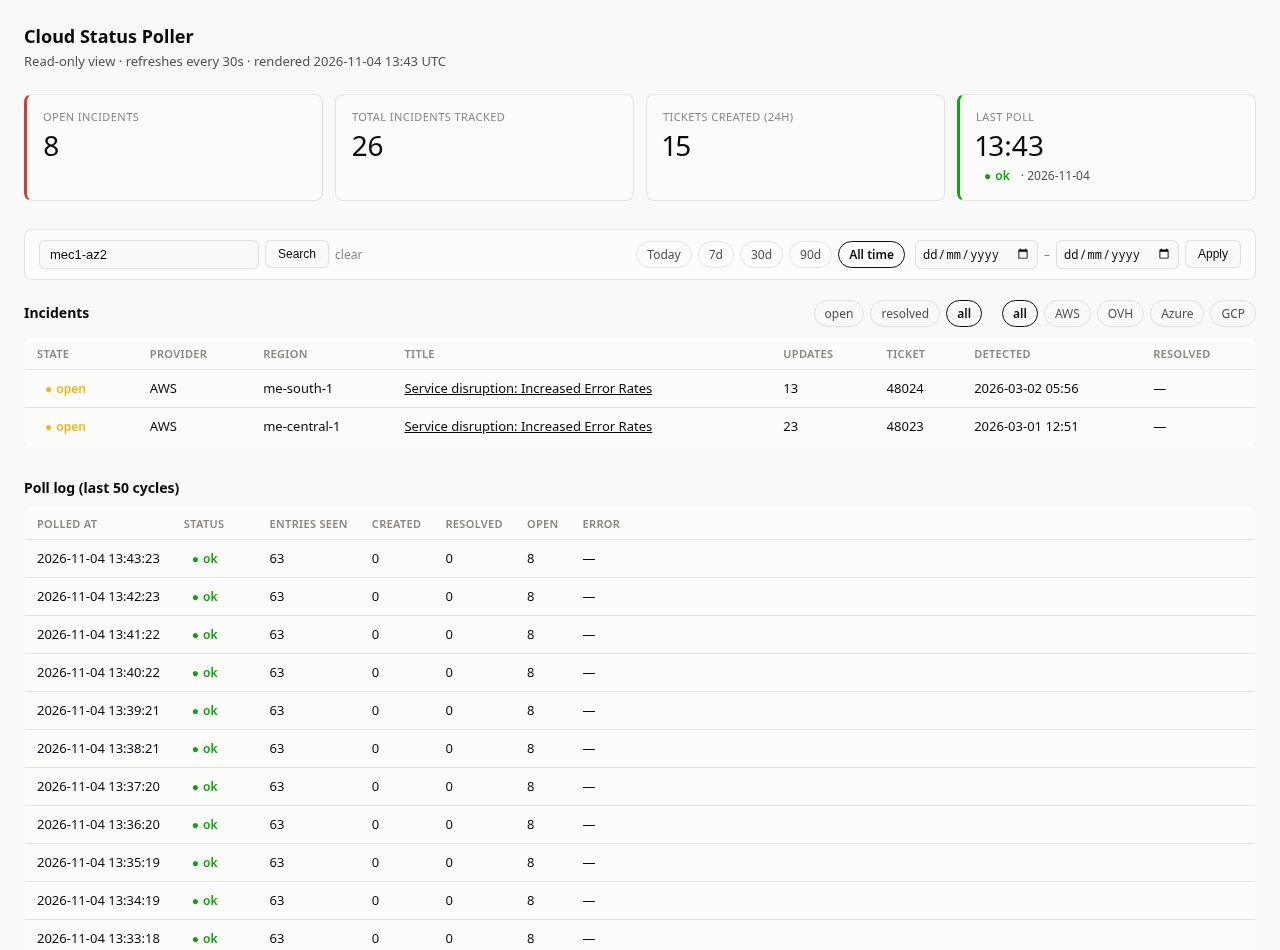
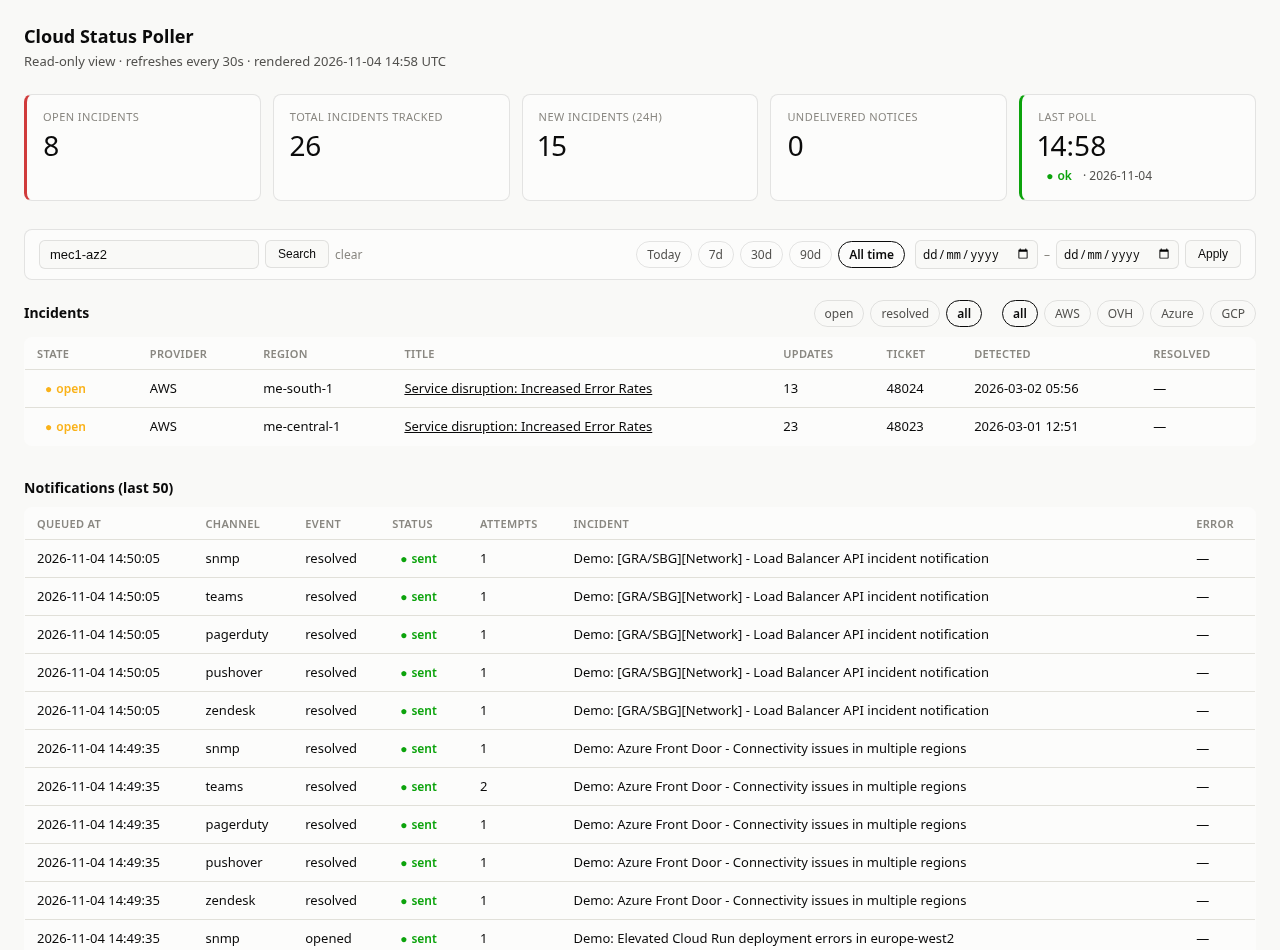
Cloud Status Poller: alert channels and the delivery queue, index in order

diff --git a/cloud-status-poller/README.md b/cloud-status-poller/README.md
@@ -1,12 +1,12 @@
 # Cloud Status Poller
 
-**A small service for support and operations teams that watches the public status feeds of AWS, OVHcloud, Microsoft Azure and Google Cloud, raises a Zendesk ticket when an incident touches a region you care about, and moves the ticket to pending when the provider says it's over.**
+**A small service for support and operations teams that watches the public status feeds of AWS, OVHcloud, Microsoft Azure and Google Cloud, tells you when an incident touches a region you care about, through Zendesk, PagerDuty, Pushover, Microsoft Teams or SNMP traps, and follows up when the provider says it's over.**
 
-When a cloud provider has a problem, the first place to say so is usually its status page, and nobody is paid to sit and refresh four of them. Customers notice first, or a support engineer finds out by chance. Each provider also publishes differently: one posts every update as a separate entry, another rewords its entries, another just removes them when the event ends. Cloud Status Poller reads all four on a schedule, works out which incidents matter to you, and turns each one into a single ticket with a record of what happened and when.
+When a cloud provider has a problem, the first place to say so is usually its status page, and nobody is paid to sit and refresh four of them. Customers notice first, or a support engineer finds out by chance. Each provider also publishes differently: one posts every update as a separate entry, another rewords its entries, another just removes them when the event ends. Cloud Status Poller reads all four on a schedule, works out which incidents matter to you, and turns each one into a single ticket and alert, with a record of what happened and when.
 
-![The dashboard during a run: eight open incidents across OVH, Google Cloud and AWS, with the poll log below](images/01-hero.png)
+![The dashboard during a run: eight open incidents across OVH, Google Cloud and AWS, with the notifications sent below](images/01-hero.png)
 
-*The dashboard at the end of a 50-minute run on 4 November 2026, with real feeds from all four providers. The AWS rows are real: one long-running event in each of two Middle East regions, with 23 and 13 updates on a single ticket each. Entries starting "Demo:" were scripted for this page, so that tickets could open and close during the run. The two OVH rows at the top are real maintenance notices, dated by when the work is scheduled.*
+*The dashboard at the end of a 20-minute run on 4 November 2026, with real feeds from all four providers. The AWS rows are real: one long-running event in each of two Middle East regions, with 23 and 13 updates on a single ticket each. Entries starting "Demo:" were scripted for this page, so that tickets could open and close during the run. The two OVH rows at the top are real maintenance notices, dated by when the work is scheduled.*
 
 ---
 
@@ -17,15 +17,16 @@ When a cloud provider has a problem, the first place to say so is usually its st
 | **Four providers** | AWS, OVHcloud, Azure and Google Cloud, each read in the way its feed needs; any of them can be switched off |
 | **Filtering** | By region, using each provider's own region names, and optionally by keyword |
 | **Zendesk tickets** | One ticket per incident with the provider, region, link and timeline; provider updates added as internal notes; moved to pending when the incident ends, for a person to close |
-| **Failure handling** | Zendesk failures are retried on the next poll; a cycle that fails is recorded with its error; an unreadable feed closes nothing |
-| **Dashboard** | Read-only web view: summary tiles, incidents, search, filters by state, provider and date, and a log of every poll |
+| **Alerts** | Pushover, PagerDuty, Microsoft Teams and SNMP traps, in any combination, with or without Zendesk; old events and planned maintenance don't interrupt anyone |
+| **Failure handling** | Each channel fails and retries alone through a delivery queue; a cycle that fails sends nothing and is recorded with its error; an unreadable feed closes nothing |
+| **Dashboard** | Read-only web view: summary tiles, incidents, search, filters by state, provider and date, and a log of every notification and poll |
 | **History** | Every incident and update is kept in PostgreSQL, with the provider's own timestamps, ready for SQL reporting |
 
 ---
 
 ## From a status feed to a ticket
 
-Every five minutes by default, the poller reads each provider's feed and compares it with what it already knows. A new incident in a watched region gets a Zendesk ticket straight away. An incident that was already over the first time the poller saw it is recorded for history, without raising a ticket nobody needs to act on. When an open incident ends, the ticket gets an internal note and moves to **pending**, and closing it stays a human decision.
+Every five minutes by default, the poller reads each provider's feed and compares it with what it already knows. A new incident in a watched region gets a Zendesk ticket and an alert straight away. An incident that was already over the first time the poller saw it is recorded for history, without raising anything nobody needs to act on. When an open incident ends, the ticket gets an internal note and moves to **pending**, and closing it stays a human decision.
 
 ![Twelve scripted incidents across all four providers: some open, most resolved, with ticket numbers, update counts and detected and resolved times](images/02-lifecycle.png)
 
@@ -42,15 +43,54 @@ Region:   europe-west2
 Link:     https://status.cloud.google.com/incidents/demoGcp001
 
 --- Timeline ---
-Incident published: 2026-11-04 13:00 UTC
-Last updated:       2026-11-04 13:00 UTC
-Detected by poller: 2026-11-04 13:00 UTC
+Incident published: 2026-11-04 14:40 UTC
+Last updated:       2026-11-04 14:40 UTC
+Detected by poller: 2026-11-04 14:40 UTC
 
 --- Detail ---
 Cloud SQL: We are investigating slow restarts of Cloud SQL instances in europe-west2.
 ```
 
 Priority, tags and the Zendesk group that receives the tickets are all settings. Across the run the poller raised 15 tickets, added 6 internal notes and moved 7 tickets to pending.
+
+---
+
+## Alerts: reaching people and systems
+
+A ticket records an incident, but it doesn't wake anyone. Four more channels can run alongside Zendesk, or instead of it: any one of them is enough. Each is on once its settings are filled in.
+
+| Channel | What it sends |
+|---|---|
+| **PagerDuty** | An Events API v2 alert, which clears itself when the incident ends |
+| **Pushover** | A push message to a phone, with a link to the status page; emergency priority repeats until someone acknowledges it |
+| **Microsoft Teams** | An Adaptive Card posted to a channel through a Workflows webhook, with the provider, region and a button to the status page |
+| **SNMP traps** | A v2c trap to each receiver, for network monitoring systems, with a MIB file so they decode by name |
+
+Across the run, each of the four delivered 18 notices: 11 incidents opening and 7 ending. PagerDuty's alert carries a key that its all-clear reuses, so the same alert closes when the incident does. This is what the scripted Cloud SQL incident sent, shortened:
+
+```json
+{
+  "event_action": "trigger",
+  "dedup_key": "cloud-status-19",
+  "payload": {
+    "summary": "[GCP] europe-west2 – Demo: Cloud SQL instances in europe-west2 are slow to restart",
+    "source": "GCP europe-west2",
+    "severity": "error"
+  }
+}
+```
+
+And this is a trap as a real `snmptrapd` decoded it, using the project's MIB, also shortened:
+
+```
+SNMPv2-MIB::snmpTrapOID.0 = OID: CLOUD-STATUS-POLLER-MIB::cspIncidentResolved
+CLOUD-STATUS-POLLER-MIB::cspProvider = STRING: OVH
+CLOUD-STATUS-POLLER-MIB::cspRegion = STRING: GRA
+CLOUD-STATUS-POLLER-MIB::cspTitle = STRING: Demo: [GRA7][Storage] - Volume Ceph incident notification
+CLOUD-STATUS-POLLER-MIB::cspIncidentId = INTEGER: 15
+```
+
+**Not everything should wake someone.** A status feed holds months of history and next month's maintenance, and a new install would otherwise page someone for all of it. So Zendesk records every incident, while the alert channels skip anything published more than 24 hours ago and all scheduled maintenance. Both rules are settings. In the run, the two AWS events from March and two real OVH maintenance notices each got a ticket and no alerts: of the 72 alerts sent, none was about them. Alerts cover new and resolved incidents by default, and a channel only hears that an incident ended if it heard it begin. Provider updates go to Zendesk as notes, and can be turned on for Pushover, Teams and SNMP.
 
 ---
 
@@ -79,45 +119,51 @@ Azure's feed only lists events in progress, so an event can end by disappearing.
 
 **Regions** come first, using each provider's own names. AWS uses codes such as `me-central-1`, and Google Cloud location IDs such as `europe-west2` or `global`. OVH codes match as whole words, so `GRA` finds `[GRA]` and `GRA11` but not the "gra" in "upgrade" or "migrated". Azure names match exactly, so `West US` isn't `West US 2`, and `Central US` isn't `South Central US`. Include `Multiple Regions` to catch broad Azure events, or use `*` for all of them.
 
-**Keywords** are an optional second filter. With one AWS region, three OVH regions and two Google Cloud locations watched, the real feeds gave 10 incidents with no keywords set, 4 with `Compute,Storage`, and 6 with `incident`. That last one drops OVH's maintenance notices, but also AWS, whose entries don't use the word, and the filter applies to every provider. Entries that don't pass are never stored or ticketed.
+**Keywords** are an optional second filter. With one AWS region, three OVH regions and two Google Cloud locations watched, the real feeds gave 10 incidents with no keywords set, 4 with `Compute,Storage`, and 6 with `incident`. That last one drops OVH's maintenance notices, but also AWS, whose entries don't use the word, and the filter applies to every provider. Entries that don't pass are never stored or sent anywhere.
 
 ---
 
 ## The dashboard
 
-The dashboard is a read-only web page that refreshes every 30 seconds. It runs only `SELECT` queries, so it's safe to leave on a wall screen or give to people who shouldn't be able to change anything. Four tiles show open incidents, the total tracked, tickets raised in the last 24 hours, and how the last poll went.
+The dashboard is a read-only web page that refreshes every 30 seconds. It runs only `SELECT` queries, so it's safe to leave on a wall screen or give to people who shouldn't be able to change anything. Five tiles show open incidents, the total tracked, new incidents in the last 24 hours, notices not yet delivered, and how the last poll went.
 
 Search covers titles, summaries, regions, providers and every stored update, not just the newest one. Here, the name of a single AWS Availability Zone finds the two long-running events it was mentioned in:
 
 ![A search for the Availability Zone mec1-az2 finding the two AWS incidents that mention it](images/04-search.png)
 
-Incidents can be filtered by state and provider, and by Today, 7, 30 or 90 days, or a custom date range. The date filter applies to the poll log too, which is why the log is empty for this period: this instance didn't exist yet.
+Incidents can be filtered by state and provider, and by Today, 7, 30 or 90 days, or a custom date range. The date filter applies to the notification and poll logs too, which is why both are empty for this period: this instance didn't exist yet.
 
 ![The dashboard filtered to 1 October to 3 November 2026, showing five real incidents from OVH and Google Cloud](images/05-range.png)
 
 The page follows the browser's light or dark setting. On a phone the tiles stack and the tables scroll sideways.
 
-![The dashboard in dark mode](images/07-dark.png)
+![The dashboard in dark mode](images/08-dark.png)
 
 ---
 
 ## When things go wrong
 
-An unattended service has to cope with the things it depends on failing, so the run included three deliberate faults. The Zendesk here was a stand-in, set up to refuse requests for a few minutes at a time.
+An unattended service has to cope with the things it depends on failing. Every notice goes through a delivery queue: a poll records the incident and queues one notice per channel in the same database transaction, and sends them once that's committed. So each channel fails and retries alone, and notices for one incident stay in order. The run included five deliberate faults, and the services here were stand-ins, set up to refuse requests for a minute or so at a time.
 
-**Zendesk refuses new tickets.** For three minutes the stand-in answered every new ticket with an error. Two incidents were affected, and neither was lost: they stayed unrecorded, the poller tried again each cycle, and both tickets went through as soon as the stand-in recovered. No duplicates were created.
+**Zendesk refuses new tickets.** Two incidents arrived during the fault. Both were recorded straight away and their alerts went out on the first attempt, so a Zendesk problem didn't delay anyone being told. Their tickets followed a minute later, with no duplicates.
 
-**Zendesk refuses updates.** During a second fault of three and a half minutes, two incidents ended. Their tickets stayed open and the poller kept trying until both moved to pending, three to four minutes after the provider had called them over.
+**Zendesk refuses updates.** Two incidents ended during a second fault. The dashboard showed them as resolved at once, and both tickets moved to pending when the next retry went through, about a minute later.
 
-**The poll itself fails.** For one cycle the `incidents` table was renamed, as a bad migration might. The poller recorded the failure with its error, carried on, and the next cycle ran normally. No incidents were lost or duplicated.
+**PagerDuty and Teams fail.** One PagerDuty alert hit a `503` and went through on its next attempt. Teams refused five requests with a `429`, affecting four notices: all were delivered, the slowest on its third attempt, three and a half minutes later. Failures are treated the way each service asks: a `429` from PagerDuty or Teams is retried, while Pushover says never to repeat a 4xx, so that notice is marked failed and shown on the dashboard.
 
-![The poll log: tickets created and resolved over twenty minutes, the two Zendesk faults, and one failed cycle in red with its database error](images/06-poll-log.png)
+![The notifications log: Zendesk on attempt 2 while the other four channels succeeded on attempt 1, and a Teams notice delivered on attempt 3](images/06-notifications.png)
 
-*The middle of the poll log. Reading from the bottom: the first fault ends with 2 tickets created at 13:13, the second with 2 resolved at 13:17, and the failed cycle shows at 13:27 with its error. An open count of -1 marks a cycle that couldn't read the database.*
+*Two parts of the notifications log. In the upper one, a resolved notice took three attempts on Teams and one everywhere else. In the lower one, two incidents arrived during the Zendesk fault: Zendesk took two attempts, and the four alert channels one each.*
+
+**The poll itself fails.** For one cycle the `incidents` table was renamed, as a bad migration might. The poller recorded the failure with its error, carried on, and the next cycle ran normally. No incidents were lost or duplicated. Because nothing is sent until the database has committed, a cycle that fails partway can't raise a ticket and then forget it: a separate test forced that case, and the incident got exactly one ticket once polling recovered.
+
+![The poll log: new and resolved incidents over eight minutes, and one failed cycle in red with its database error](images/07-poll-log.png)
+
+*The middle of the poll log, with polls every 30 seconds. An open count of -1 marks a cycle that couldn't read the database. New and Resolved count incidents, so the Zendesk fault at 14:44 doesn't hold them back: two new incidents show at once.*
 
 The poller also treats feed content as untrusted, because it ends up on a web page. A scripted entry with a `javascript:` link and a `<script>` tag in its text was stored with the link replaced by the feed's own address and the tag removed.
 
-For checking a setup, `--dry-run` reads the feeds and logs what it would do without calling Zendesk, and `--once` runs a single poll for use from cron. A missing token, no configured regions or an invalid Zendesk group ID stops it at startup with a clear message.
+For checking a setup, `--dry-run` reads the feeds and logs what it would do without sending anything, and `--once` runs a single poll for use from cron. No notification channel, a half-configured one, no regions, or a bad setting such as an unknown PagerDuty severity stops it at startup with a clear message.
 
 ---
 
@@ -136,19 +182,21 @@ SELECT provider, AVG(resolved_at - detected_at) AS avg_resolve_time
 
 ## How it runs
 
-Three containers under Docker or Podman Compose: PostgreSQL 16, the Python poller, and the Flask dashboard, which listens on localhost by default. Settings live in one `.env` file, with Zendesk credentials, regions per provider, keywords and the poll interval, and incident history survives restarts in a database volume.
+Three containers under Docker or Podman Compose: PostgreSQL 16, the Python poller, and the Flask dashboard, which listens on localhost by default. Settings live in one `.env` file, with the notification channels, regions per provider, keywords and the poll interval, and incident history and undelivered notices survive restarts in a database volume.
 
 ---
 
 ## Status
 
-A small working tool, written for one job. It has no automated test suite yet. Its matching rules were checked with 38 one-off test cases, then against the live feeds of all four providers.
+A small working tool, written for one job. 31 unit tests cover each channel's messages against its published limits, which failures retry, delivery order and startup checks. A scripted end-to-end run passed 37 checks on top of that, and the region and status matching rules were checked with 38 one-off test cases, then against the live feeds of all four providers. There is no test suite for the feed parsing yet.
 
-The screenshots come from a run on 4 November 2026: 50 polls, one a minute instead of the default five, over about 50 minutes. The AWS, OVH and Google Cloud feeds were real and live, and scripted entries marked "Demo:" were added to them. Tickets went to a stand-in for the Zendesk API that recorded each request, not to a real Zendesk account, and the two ticket faults above happened on that stand-in only.
+The screenshots come from a run on 4 November 2026: 42 polls, one every 30 seconds instead of the default five minutes, over about 20 minutes. The AWS, OVH and Google Cloud feeds were real and live, and scripted entries marked "Demo:" were added to them. SNMP traps went to a real `snmptrapd`. Zendesk, PagerDuty, Pushover and Teams were stand-ins that recorded each request, built from each service's published API rules, and the faults above happened on those stand-ins only.
 
 Some limits to know about:
 
+- **The alert channels haven't met the real services yet.** PagerDuty, Pushover and Teams have only been tested against stand-ins, so a Teams card, for one, hasn't been seen in Teams itself.
+- **An SNMP trap has no acknowledgement.** `sent` means it left the host, not that a receiver got it.
 - **Azure hasn't been tried on a live event.** Its feed was empty throughout, so Azure handling is built from its published incident history and reports of how the feed behaves, then tested with scripted entries in that format. Real entries may differ.
-- **Events in the same region can merge.** AWS and Azure give no event ID in their feeds, so two separate events open in one region at the same time share one incident and one ticket.
-- **OVH maintenance notices count as incidents.** They raise a ticket like any other entry and are dated by their scheduled time, so they can show a future date. A keyword filter can leave them out.
+- **Events in the same region can merge.** AWS and Azure give no event ID in their feeds, so two separate events open in one region at the same time share one incident, one ticket and one alert.
+- **OVH maintenance notices count as incidents.** They raise a ticket like any other entry, though no alerts by default, and are dated by their scheduled time, so they can show a future date. A keyword filter can leave them out.
 - **Feed failures are easy to miss.** A feed that can't be reached doesn't count as a failed poll: the dashboard still shows `ok`, with fewer entries seen.

diff --git a/README.md b/README.md
@@ -9,7 +9,7 @@ Overviews of my projects: what each one is for, what it does, and how it looks i
 | [CallNest](callnest/README.md) | A call recorder built on open standards: captures calls from Asterisk, SIPREC, SIP or a packet capture, then transcribes, checks and seals them |
 | [CallOwl](callowl/README.md) | A self-hosted call logging platform: collects Open CDR call records from any phone system, then searches, measures and audits them with scoped access |
 | [CallRaven](callraven/README.md) | A containerised SIP softphone and test tool for phone systems: real calls, captured, measured, transcribed and graded, from a web UI or a REST API |
+| [Cloud Status Poller](cloud-status-poller/README.md) | Watches the public status feeds of AWS, OVHcloud, Azure and Google Cloud and tells you about incidents in the regions you care about, through Zendesk, PagerDuty, Pushover, Teams or SNMP traps |
 | [Desktop Icon Manager](desktop-icon-manager/README.md) | A native Linux app for changing any application's icon in the menu and dock, Chrome web apps included |
 | [Parley](parley/README.md) | An IP intercom in the browser: talk groups and direct calls, with live transcripts, group chat and SIP-REC recording |
 | [The Open CDR Project](open-cdr/README.md) | An open, vendor-neutral standard for call detail records: one record shape for every call, whichever phone system made it, and one API to read them |
-| [Cloud Status Poller](cloud-status-poller/README.md) | Watches the public status feeds of AWS, OVHcloud, Azure and Google Cloud, raises a Zendesk ticket for incidents in the regions you care about, and moves it to pending when they end |
